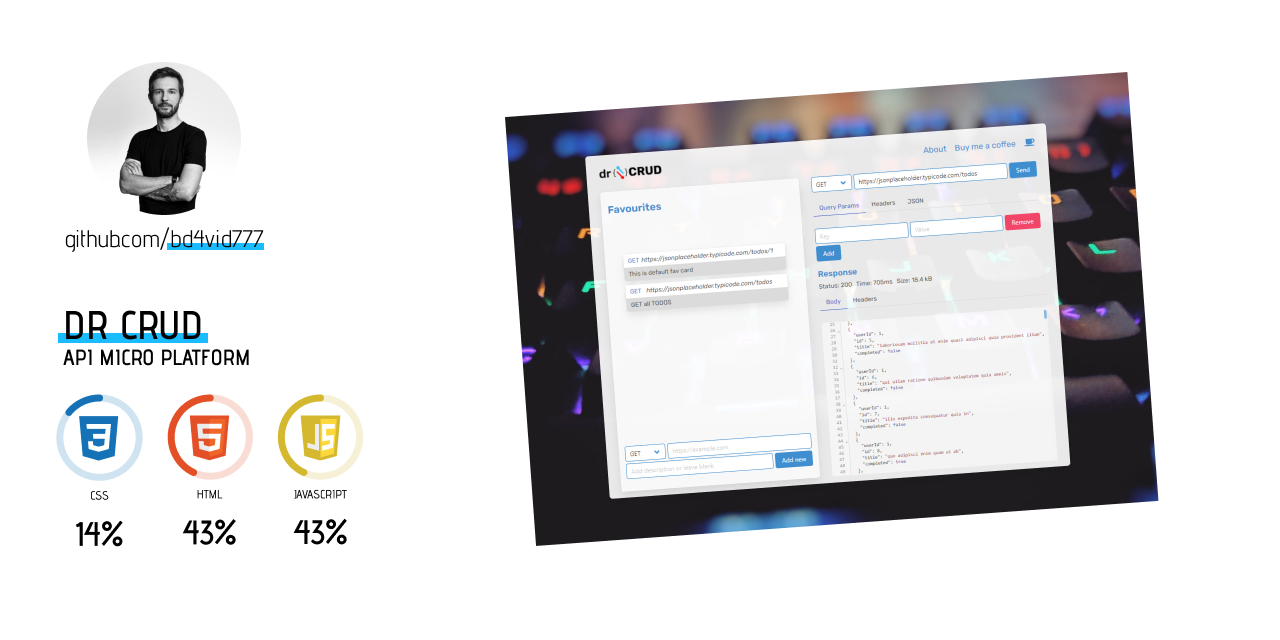
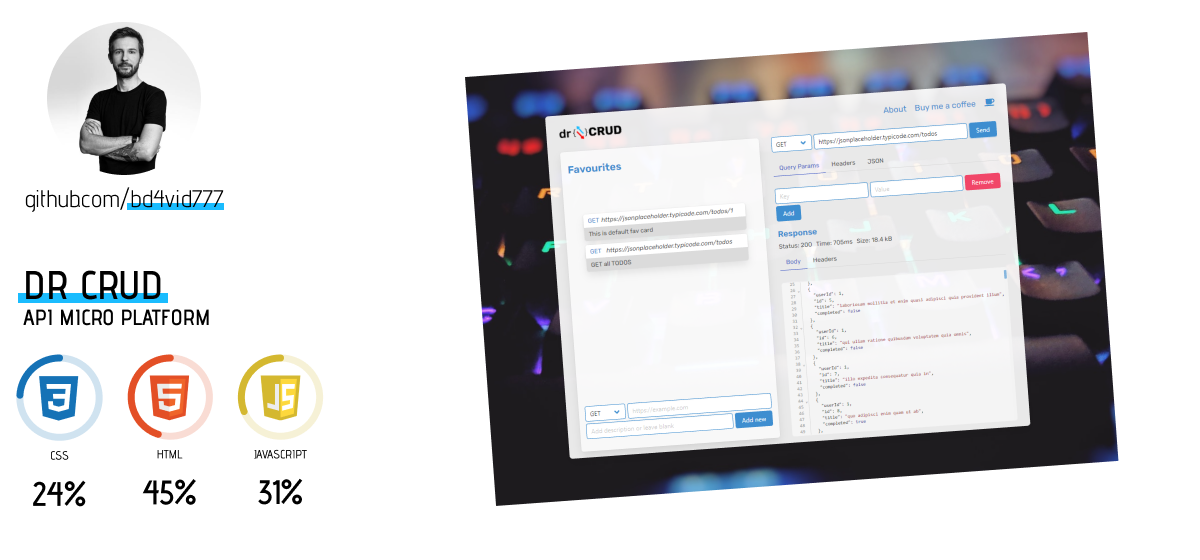
Final updates

diff --git a/index.html b/index.html
@@ -231,7 +231,7 @@
                                     <circle cx="43.5" cy="43.114" r="39.114" stroke="#D4B830" stroke-opacity="0.2" stroke-width="7"/>
                                     <circle class="js-circle" cx="43.5" cy="43.114" r="39.114" stroke-width="7" stroke-linecap="round"/>
                                 </svg>
-                                <h3 class="has-text-white is-small text-percentage">40%</h3>
+                                <h3 class="has-text-white is-small text-percentage">31%</h3>
                             </div>
                             <div class="code-usage">
                                 <img src="img/HTML_Logo.png" alt="HTML Code Usage">
@@ -239,7 +239,7 @@
                                     <circle cx="43.2981" cy="43.1058" r="39.1058" stroke="#E34F26" stroke-opacity="0.2" stroke-width="7"/>
                                     <circle class="js-html" cx="43.5" cy="43.114" r="39.114" stroke-width="7" stroke-linecap="round"/>
                                 </svg>
-                                <h3 class="has-text-white is-small text-percentage">41%</h3>
+                                <h3 class="has-text-white is-small text-percentage">45%</h3>
                             </div>
                             <div class="code-usage">
                                 <img src="img/CSS_Logo.png" alt="CSS Code Usage">
@@ -247,7 +247,7 @@
                                     <circle cx="43.5" cy="43.6455" r="39.6455" stroke="#1572B6" stroke-opacity="0.2" stroke-width="7"/>
                                     <circle class="js-css" cx="43.5" cy="43.114" r="39.114" stroke-width="7" stroke-linecap="round"/>
                                 </svg>
-                                <h3 class="has-text-white is-small text-percentage">19%</h3>
+                                <h3 class="has-text-white is-small text-percentage">24%</h3>
                             </div>
                         </div>
                     </div>

diff --git a/styles.css b/styles.css
@@ -351,11 +351,11 @@ li.is-active a {
 }
 
 .aboutProject.activeSlide .js-circle {
-    stroke-dashoffset: 392;
+    stroke-dashoffset: 412;
 }
 
 .aboutProject.activeSlide .js-html {
-    stroke-dashoffset: 384;
+    stroke-dashoffset: 391;
 }
 
 .aboutProject.activeSlide .js-css {
